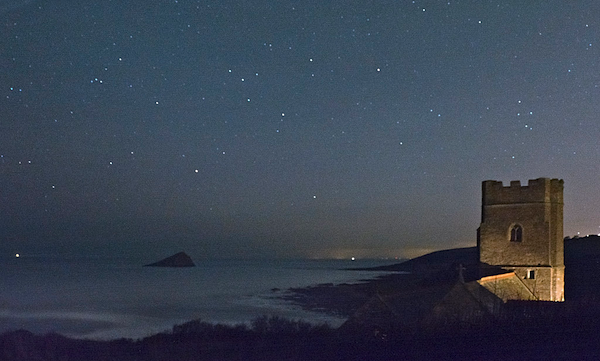
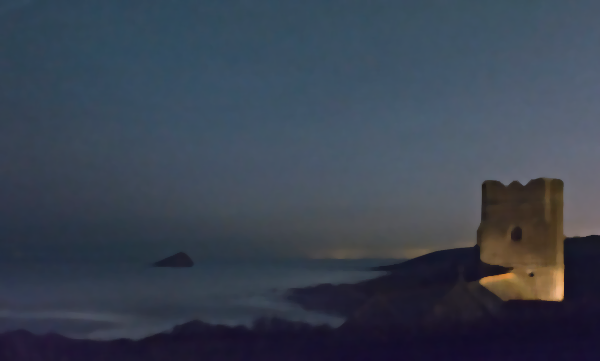
pq é que n funcionaaa

diff --git a/Script.cpp b/Script.cpp
@@ -1,5 +1,7 @@
 #include <iostream>
 #include <fstream>
+#include <vector>
+#include <algorithm>
 #include "Script.hpp"
 #include "PNG.hpp"
 #include "XPM2.hpp"
@@ -28,6 +30,12 @@ namespace prog
     bool operator!=(const Color &color1, const Color &color2)
     {
         return (color1.red() != color2.red() || color1.green() != color2.green() || color1.blue() != color2.blue());
+    }
+
+    ostream &operator<<(ostream &os, const Color &c)
+    {
+        os << '{' << static_cast<int>(c.red()) << ',' << static_cast<int>(c.green()) << ',' << static_cast<int>(c.blue()) << "}\n";
+        return os;
     }
 
     Script::Script(const string &filename) : image(nullptr), input(filename)
@@ -116,6 +124,11 @@ namespace prog
             if (command == "rotate_right")
             {
                 rotate_right();
+                continue;
+            }
+            if (command == "median_filter")
+            {
+                median_filter();
                 continue;
             }
         }
@@ -238,7 +251,6 @@ namespace prog
             for (int j = x; j < (w + x); j++)
             {
                 Color *curr_pixel = &this->image->at(j, i);
-                curr_pixel->show();
                 curr_pixel->red() = c.red();
                 curr_pixel->green() = c.green();
                 curr_pixel->blue() = c.blue();
@@ -324,5 +336,58 @@ namespace prog
         delete this->image;
         this->image = new_img;
         this->h_mirror();
+    }
+
+    Color median(vector<Color> neighboors)
+    {
+        int len = neighboors.size();
+        rgb_value *reds = new rgb_value[len];
+        rgb_value *greens = new rgb_value[len];
+        rgb_value *blues = new rgb_value[len];
+        for (int i = 0; i < len; i++)
+        {
+            reds[i] = neighboors[i].red();
+            greens[i] = neighboors[i].green();
+            blues[i] = neighboors[i].blue();
+        }
+        sort(reds, reds + len);
+        sort(greens, greens + len);
+        sort(blues, blues + len);
+
+        if (len % 2 != 0)
+        {
+            return {reds[len / 2], greens[len / 2], blues[len / 2]};
+        }
+        else
+        {
+            return {reds[((len / 2 - 1) + (len / 2)) / 2], greens[((len / 2 - 1) + (len / 2)) / 2], blues[((len / 2 - 1) + (len / 2)) / 2]};
+        }
+    }
+
+    void Script::median_filter()
+    {
+        int ws;
+        input >> ws;
+        int h = this->image->height();
+        int w = this->image->width();
+        Image *new_img = new Image(w, h);
+        for (int y = 0; y < h; y++)
+        {
+            for (int x = 0; x < w; x++)
+            {
+                vector<Color> neighboors;
+                for (int ny = max(0, y - ws / 2); ny <= min(h - 1, y + ws / 2); ny++)
+                {
+                    for (int nx = max(0, x - ws / 2); nx <= min(w - 1, x + ws / 2); nx++)
+                    {
+                        neighboors.push_back(this->image->at(nx, ny));
+                    }
+                }
+                Color pix = median(neighboors);
+                new_img->at(x, y) = pix;
+            }
+        }
+        delete this->image;
+        this->image = new_img;
     }
 }

diff --git a/Color.cpp b/Color.cpp
@@ -52,9 +52,4 @@ namespace prog
     {
         return this->blue_;
     }
-
-    void Color::show() const
-    {
-        std::cout << "{" << this->red_ << ", " << this->green_ << ", " << this->blue_ << "}\n";
-    }
 }

diff --git a/Color.hpp b/Color.hpp
@@ -19,7 +19,6 @@ namespace prog
     rgb_value &green();
     rgb_value blue() const;
     rgb_value &blue();
-    void show() const;
   };
 }
 #endif

diff --git a/Script.hpp b/Script.hpp
@@ -36,6 +36,7 @@ namespace prog
     void crop();
     void rotate_left();
     void rotate_right();
+    void median_filter();
   };
 }
 #endif
